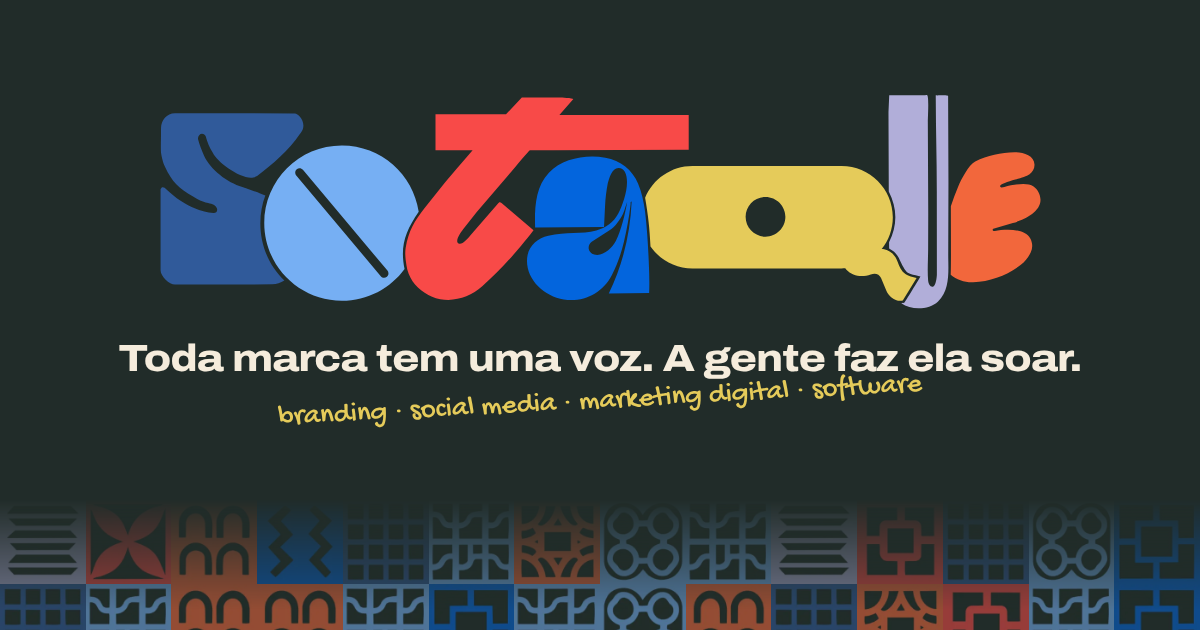
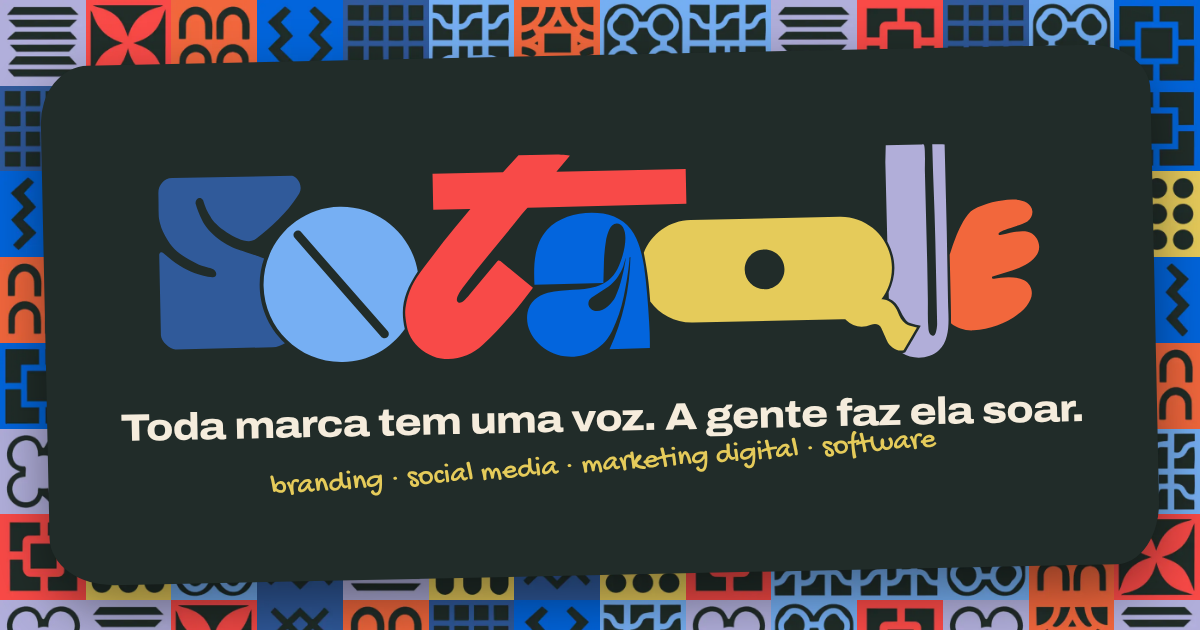
OG: cartão central maior sobre a parede de cobogós
Claude-Session: https://claude.ai/code/session_017FsLfb7CqekcF7AXwLYZn5

diff --git a/index.html b/index.html
@@ -17,7 +17,7 @@
 <meta property="og:image" content="og-image.png">
 <meta property="og:image:width" content="1200">
 <meta property="og:image:height" content="630">
-<meta property="og:image:alt" content="Logo colorida da Sotaque sobre fundo escuro, com a frase Toda marca tem uma voz e cobogós discretos na base">
+<meta property="og:image:alt" content="Logo colorida da Sotaque num cartão escuro sobre uma parede de cobogós coloridos, com a frase Toda marca tem uma voz">
 <meta name="twitter:card" content="summary_large_image">
 <meta name="twitter:title" content="Sotaque — Toda marca tem uma voz. A gente faz ela soar.">
 <meta name="twitter:image" content="og-image.png">
